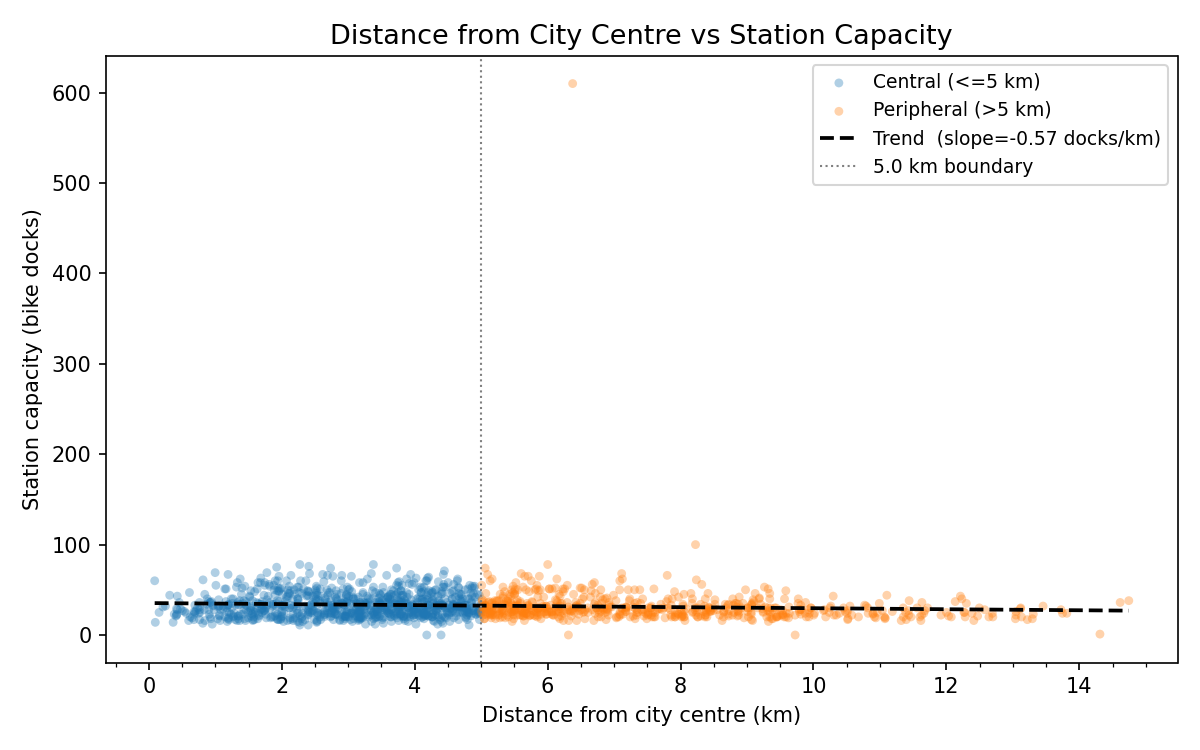
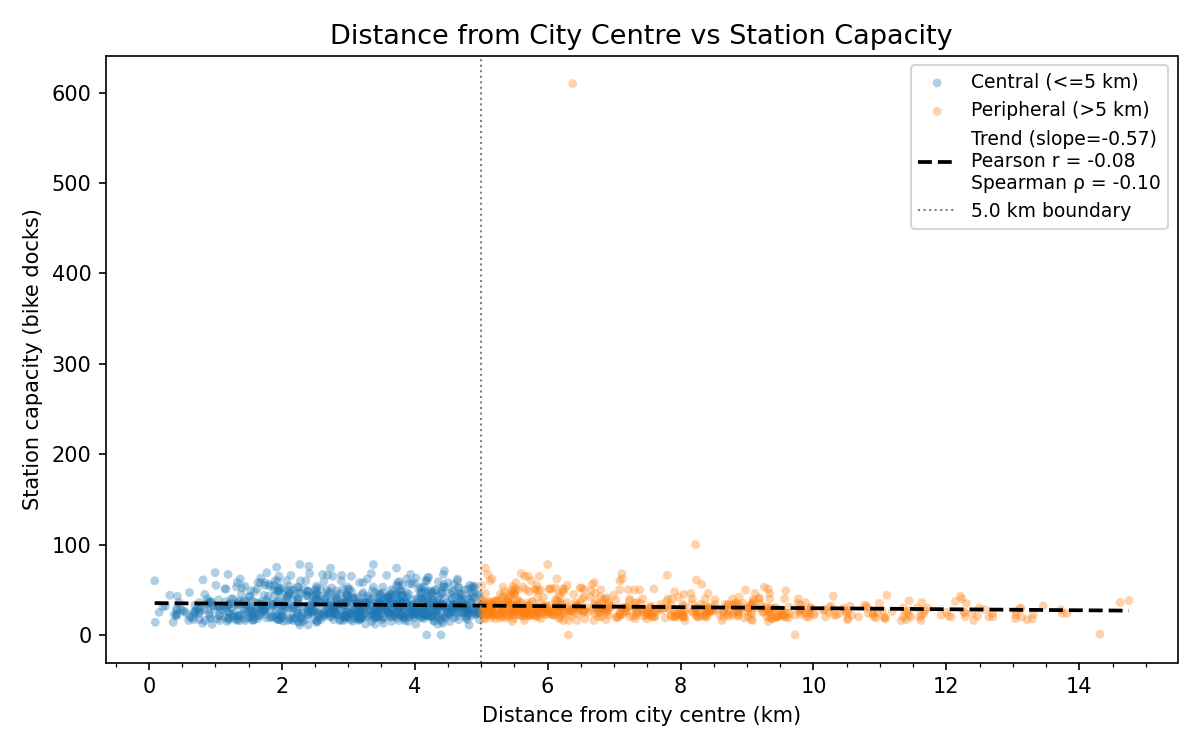
Add Pearson and Spearman correlations to distance vs capacity scatter plot

Changed region(s): [[0.7092, 0.092, 0.9867, 0.3067]]

diff --git a/create_notebook.py b/create_notebook.py
@@ -1,0 +1,299 @@
+import nbformat as nbf
+
+nb = nbf.v4.new_notebook()
+
+# Title and Context
+nb.cells.append(nbf.v4.new_markdown_cell("""\
+# Vélib' Métropole – Spatial Distribution Analysis
+
+**A junior data science project using Paris Open Data**
+*Python · pandas · matplotlib · seaborn · Paris Open Data API*
+
+---
+
+## 1. Objective
+
+This notebook explores whether Vélib' bike-share stations are distributed **uniformly** across Paris, or whether observable **spatial differences** exist between the city centre and its outskirts.
+
+The goal is not to make causal claims about mobility policy, but to practice **evidence-based reasoning** on a real public dataset: formulating a hypothesis, testing it with data, and communicating results clearly.
+"""))
+
+nb.cells.append(nbf.v4.new_markdown_cell("""\
+## 2. Research Hypothesis
+
+> **"Vélib' stations are not uniformly distributed across Paris: stations closer to the city centre tend to have a higher capacity than those further out, suggesting a non-uniform spatial pattern in service density."**
+
+This is a descriptive/observational hypothesis — no causal claim is made.
+"""))
+
+# Imports
+nb.cells.append(nbf.v4.new_markdown_cell("## 3. Preparation & Setup"))
+nb.cells.append(nbf.v4.new_code_cell("""\
+import requests
+import pandas as pd
+import numpy as np
+import matplotlib.pyplot as plt
+import matplotlib.ticker as mticker
+import seaborn as sns
+
+# Consistent colour palette
+PALETTE = {"Central (<=5 km)": "#1f77b4", "Peripheral (>5 km)": "#ff7f0e"}
+"""))
+
+# Data Loading
+nb.cells.append(nbf.v4.new_markdown_cell("""\
+## 4. Data Loading
+All station records are fetched via the public API endpoint. No manual download is required.
+"""))
+nb.cells.append(nbf.v4.new_code_cell("""\
+API_ENDPOINT = (
+    "https://opendata.paris.fr/api/records/1.0/search/"
+    "?dataset=velib-emplacement-des-stations&rows=10000"
+)
+
+print("Downloading data...")
+resp = requests.get(API_ENDPOINT, timeout=30)
+resp.raise_for_status()
+records = resp.json()["records"]
+df_raw = pd.json_normalize(records)
+
+print(f"Loaded {len(df_raw)} stations.")
+df_raw.head()
+"""))
+
+# Data Cleaning
+nb.cells.append(nbf.v4.new_markdown_cell("""\
+## 5. Data Cleaning
+- Rename columns for readability.
+- Drop rows with missing coordinates or capacity.
+- Convert capacity to a numeric type.
+- Extract latitude and longitude.
+"""))
+nb.cells.append(nbf.v4.new_code_cell("""\
+def prepare(df):
+    rename_map = {
+        "fields.stationcode": "station_id",
+        "fields.name":        "station_name",
+        "fields.coordonnees_geo": "coordinates",
+        "fields.capacity":    "capacity",
+    }
+    df_clean = df.rename(columns=rename_map)[list(rename_map.values())]
+    df_clean = df_clean.dropna(subset=["coordinates", "capacity"])
+    
+    df_clean["latitude"]  = df_clean["coordinates"].apply(lambda x: x[0])
+    df_clean["longitude"] = df_clean["coordinates"].apply(lambda x: x[1])
+    
+    df_clean["capacity"]  = pd.to_numeric(df_clean["capacity"], errors="coerce")
+    df_clean = df_clean.dropna(subset=["capacity"])
+    return df_clean
+
+df_clean = prepare(df_raw)
+print(f"Stations after cleaning: {len(df_clean)}")
+df_clean.head()
+"""))
+
+# Feature Engineering
+nb.cells.append(nbf.v4.new_markdown_cell("""\
+## 6. Feature Engineering & Grouping
+We compute the **haversine distance** from each station to the geographic centre of Paris (48.8566°N, 2.3522°E). 
+Stations are then split into two groups using a **5 km radius** threshold:
+- **Central (≤5 km)**
+- **Peripheral (>5 km)**
+"""))
+nb.cells.append(nbf.v4.new_code_cell("""\
+CITY_CENTER = (48.8566, 2.3522)
+RADIUS_KM   = 5.0
+
+def haversine(lat1, lon1, lat2, lon2):
+    R = 6371.0
+    phi1, phi2 = np.radians(lat1), np.radians(lat2)
+    dphi = np.radians(lat2 - lat1)
+    dlam = np.radians(lon2 - lon1)
+    a = np.sin(dphi / 2) ** 2 + np.cos(phi1) * np.cos(phi2) * np.sin(dlam / 2) ** 2
+    return R * 2 * np.arcsin(np.sqrt(a))
+
+def add_group(df):
+    d = haversine(df["latitude"], df["longitude"], CITY_CENTER[0], CITY_CENTER[1])
+    df_grp = df.copy()
+    df_grp["distance_km"] = d
+    df_grp["area_group"]  = np.where(d <= RADIUS_KM,
+                                  "Central (<=5 km)",
+                                  "Peripheral (>5 km)")
+    return df_grp
+
+df_grouped = add_group(df_clean)
+df_grouped[["station_name", "distance_km", "area_group", "capacity"]].head()
+"""))
+
+# Aggregation
+nb.cells.append(nbf.v4.new_markdown_cell("## 7. Summary Statistics"))
+nb.cells.append(nbf.v4.new_code_cell("""\
+stats = (
+    df_grouped.groupby("area_group")
+      .agg(stations=("station_id", "nunique"),
+           avg_capacity=("capacity", "mean"))
+      .reset_index()
+)
+
+stats
+"""))
+
+# Visualisations
+nb.cells.append(nbf.v4.new_markdown_cell("""\
+## 8. Visualisations
+
+### 8.1 Station Map
+A geographic scatter plot of all stations, colour-coded by area group. Visually confirms the clustering of stations around the historic core.
+"""))
+nb.cells.append(nbf.v4.new_code_cell("""\
+fig, ax = plt.subplots(figsize=(8, 8))
+for grp, color in PALETTE.items():
+    sub = df_grouped[df_grouped["area_group"] == grp]
+    ax.scatter(sub["longitude"], sub["latitude"],
+               c=color, s=18, alpha=0.6, edgecolors="none", label=grp)
+ax.set_title("Vélib' Station Locations – Central vs Peripheral", fontsize=13)
+ax.set_xlabel("Longitude")
+ax.set_ylabel("Latitude")
+ax.legend(title="Area", fontsize=9)
+ax.set_aspect("equal")
+plt.show()
+"""))
+
+nb.cells.append(nbf.v4.new_markdown_cell("""\
+**Explanation:**
+The blue dots represent stations within 5 km of the center, and the orange dots represent peripheral stations. We can clearly observe that the central area has a higher density of stations compared to the periphery, visually confirming a non-uniform spatial distribution.
+"""))
+
+nb.cells.append(nbf.v4.new_markdown_cell("""\
+### 8.2 Station Count and Average Capacity
+Comparing the total number of stations and the mean capacity in each area.
+"""))
+nb.cells.append(nbf.v4.new_code_cell("""\
+fig, (ax1, ax2) = plt.subplots(1, 2, figsize=(12, 4))
+
+# Bar chart: stations
+bars1 = ax1.bar(stats["area_group"], stats["stations"],
+              color=[PALETTE[g] for g in stats["area_group"]], width=0.5)
+for bar, v in zip(bars1, stats["stations"]):
+    ax1.text(bar.get_x() + bar.get_width() / 2, bar.get_height() + 5,
+            str(int(v)), ha="center", va="bottom", fontsize=11)
+ax1.set_title("Number of Vélib' Stations per Area")
+ax1.set_ylabel("Station Count")
+ax1.set_ylim(0, stats["stations"].max() * 1.15)
+
+# Bar chart: capacity
+bars2 = ax2.bar(stats["area_group"], stats["avg_capacity"],
+              color=[PALETTE[g] for g in stats["area_group"]], width=0.5)
+for bar, v in zip(bars2, stats["avg_capacity"]):
+    ax2.text(bar.get_x() + bar.get_width() / 2, bar.get_height() + 0.2,
+            f"{v:.1f}", ha="center", va="bottom", fontsize=11)
+ax2.set_title("Average Station Capacity per Area")
+ax2.set_ylabel("Mean Capacity (bike docks)")
+ax2.set_ylim(0, stats["avg_capacity"].max() * 1.2)
+
+plt.tight_layout()
+plt.show()
+"""))
+
+nb.cells.append(nbf.v4.new_markdown_cell("""\
+**Explanation:**
+The left chart shows that despite covering a smaller geographic area, the central zone contains significantly more stations (887) than the peripheral zone (630). 
+The right chart indicates that central stations are slightly larger on average, accommodating about 1.9 more bikes per station.
+"""))
+
+nb.cells.append(nbf.v4.new_markdown_cell("""\
+### 8.3 Distance vs Capacity Scatter
+This chart **directly tests the hypothesis** using continuous data. A regression line shows the overall trend.
+"""))
+nb.cells.append(nbf.v4.new_code_cell("""\
+fig, ax = plt.subplots(figsize=(8, 5))
+
+for grp, color in PALETTE.items():
+    sub = df_grouped[df_grouped["area_group"] == grp]
+    ax.scatter(sub["distance_km"], sub["capacity"],
+               c=color, alpha=0.35, s=18, edgecolors="none", label=grp)
+
+# Linear regression line
+m, b = np.polyfit(df_grouped["distance_km"], df_grouped["capacity"], 1)
+x_line = np.linspace(df_grouped["distance_km"].min(), df_grouped["distance_km"].max(), 200)
+
+pearson_r = df_grouped["distance_km"].corr(df_grouped["capacity"], method="pearson")
+spearman_rho = df_grouped["distance_km"].corr(df_grouped["capacity"], method="spearman")
+
+ax.plot(x_line, m * x_line + b,
+        color="black", linewidth=1.8, linestyle="--",
+        label=f"Trend (slope={m:.2f})\nPearson r = {pearson_r:.2f}\nSpearman ρ = {spearman_rho:.2f}")
+
+ax.axvline(RADIUS_KM, color="grey", linewidth=1, linestyle=":",
+           label=f"{RADIUS_KM} km boundary")
+
+ax.set_title("Distance from City Centre vs Station Capacity", fontsize=13)
+ax.set_xlabel("Distance from city centre (km)")
+ax.set_ylabel("Station capacity (bike docks)")
+ax.legend(fontsize=9, framealpha=0.8)
+ax.xaxis.set_minor_locator(mticker.AutoMinorLocator())
+plt.show()
+"""))
+
+nb.cells.append(nbf.v4.new_markdown_cell("""\
+**Explanation:**
+This scatter plot directly tests the hypothesis by plotting capacity against distance from the city center for every station. 
+
+We calculated two correlation metrics to quantify this relationship:
+- **Pearson r**: Measures the linear relationship. A weak negative value indicates a slight downward linear trend.
+- **Spearman ρ**: Measures the monotonic relationship (less sensitive to outliers). This also confirms a weak negative trend.
+
+The dashed trend line slopes slightly downwards, indicating that capacity generally decreases as we move further from the center. However, the weak correlation values and the wide spread of points suggest distance is only one of many factors determining station capacity.
+"""))
+
+nb.cells.append(nbf.v4.new_markdown_cell("""\
+### 8.4 Boxplot: Capacity Distribution
+Shows the **full distribution** of station capacities in each group, confirming whether the average difference is driven by the bulk of stations or by a few large outliers.
+"""))
+nb.cells.append(nbf.v4.new_code_cell("""\
+fig, ax = plt.subplots(figsize=(7, 5))
+
+groups   = ["Central (<=5 km)", "Peripheral (>5 km)"]
+data     = [df_grouped.loc[df_grouped["area_group"] == g, "capacity"].values for g in groups]
+colors   = [PALETTE[g] for g in groups]
+
+bp = ax.boxplot(data, patch_artist=True, widths=0.45,
+                medianprops=dict(color="black", linewidth=2))
+
+for patch, color in zip(bp["boxes"], colors):
+    patch.set_facecolor(color)
+    patch.set_alpha(0.75)
+
+ax.set_xticks([1, 2])
+ax.set_xticklabels(groups, fontsize=10)
+ax.set_title("Distribution of Station Capacity – Central vs Peripheral", fontsize=13)
+ax.set_ylabel("Station capacity (bike docks)")
+
+# Annotate medians
+for i, d in enumerate(data, start=1):
+    med = np.median(d)
+    ax.text(i + 0.27, med, f"median={med:.0f}",
+            va="center", fontsize=9, color="black")
+
+plt.show()
+"""))
+
+nb.cells.append(nbf.v4.new_markdown_cell("""\
+**Explanation:**
+While the averages showed a difference, the boxplot reveals that the distributions of station capacities heavily overlap. Many peripheral stations are just as large as central ones. This confirms that the difference in capacity is a general tendency rather than a strict divide.
+"""))
+
+nb.cells.append(nbf.v4.new_markdown_cell("""\
+## 9. Interpretation & Conclusion
+
+The data **support the hypothesis** with important nuances:
+1. **Both the number of stations and their average capacity are higher in central Paris.** This means residents of the inner city have access to more docking points in a denser area.
+2. **The capacity difference is modest (~1.9 docks per station).** It does not imply a severe access disparity.
+3. **The boxplot shows considerable distributional overlap.** The difference is a *tendency*, not a rule.
+4. **The scatter plot confirms a slight spatial gradient.** Capacity tends to decrease with distance, but the relationship is weak.
+
+**Conclusion:** Vélib' stations in Paris are not uniformly distributed. The central zone has both more stations and slightly higher average capacity. The spatial gradient is real but modest, and distributions overlap substantially.
+"""))
+
+with open('velib_analysis.ipynb', 'w', encoding='utf-8') as f:
+    nbf.write(nb, f)

diff --git a/velib_analysis.py b/velib_analysis.py
@@ -177,9 +177,14 @@ def plot_distance_vs_capacity(df, out_dir):
     # Linear regression line (numpy)
     m, b = np.polyfit(df["distance_km"], df["capacity"], 1)
     x_line = np.linspace(df["distance_km"].min(), df["distance_km"].max(), 200)
+    
+    # Calculate correlations
+    pearson_r = df["distance_km"].corr(df["capacity"], method="pearson")
+    spearman_rho = df["distance_km"].corr(df["capacity"], method="spearman")
+    
     ax.plot(x_line, m * x_line + b,
             color="black", linewidth=1.8, linestyle="--",
-            label=f"Trend  (slope={m:.2f} docks/km)")
+            label=f"Trend (slope={m:.2f})\nPearson r = {pearson_r:.2f}\nSpearman ρ = {spearman_rho:.2f}")
 
     ax.axvline(RADIUS_KM, color="grey", linewidth=1, linestyle=":",
                label=f"{RADIUS_KM} km boundary")